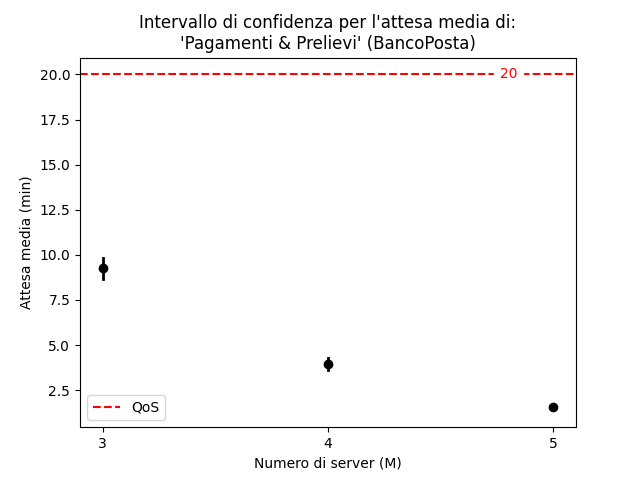
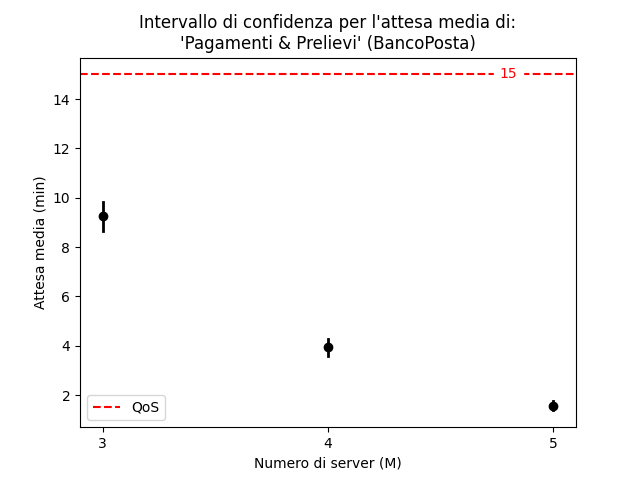
Cambiati gli obiettivi dei primi due flussi (per errore sono venuti due commit separati)

diff --git a/doc/chapters/02-obiettivi.tex b/doc/chapters/02-obiettivi.tex
@@ -4,8 +4,8 @@ L'obiettivo dello studio è quello di minimizzare il numero degli sportelli oper
 \begin{itemize}
 \item I clienti titolari di un conto \textsl{BancoPosta}:
 \begin{enumerate}[label=QoS-\arabic*), align=left, leftmargin=*]
-\item Possessori di ticket di tipo \uo{}, devono sperimentare un tempo d'attesa non superiore a $15\ min$.
-\item Possessori di ticket di tipo \pp{}, devono sperimentare un tempo d'attesa non superiore a $20\ min$.
+\item Possessori di ticket di tipo \uo{}, devono sperimentare un tempo d'attesa non superiore a $10\ min$.
+\item Possessori di ticket di tipo \pp{}, devono sperimentare un tempo d'attesa non superiore a $15\ min$.
 \item Possessori di ticket di tipo \sr{}, devono sperimentare un tempo d'attesa non superiore a $20\ min$.
 \end{enumerate}
 \item I clienti \textbf{non} titolari di un conto \textsl{BancoPosta}:
